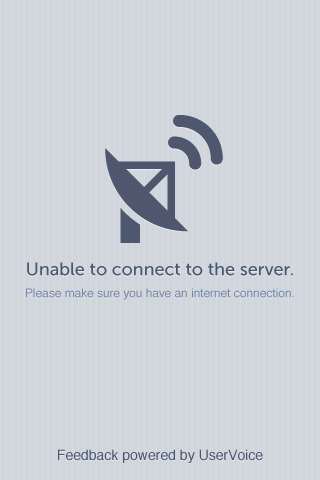
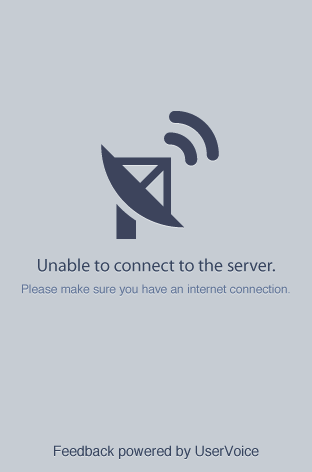
Handle different screen sizes better when displaying network error image

diff --git a/Classes/UVRootViewController.m b/Classes/UVRootViewController.m
@@ -156,10 +156,13 @@
 - (void)viewWillAppear:(BOOL)animated {
 	NSLog(@"View will appear (RootView)");
 
-	if (![UVNetworkUtils hasInternetAccess]) {
+	if (true) {
 		UIImageView *serverErrorImage = [[UIImageView alloc] initWithImage:[UIImage imageNamed:@"uv_error_connection.png"]];
 		self.navigationController.navigationBarHidden = NO;
 		serverErrorImage.frame = self.view.frame;
+        serverErrorImage.contentMode = UIViewContentModeCenter;
+        serverErrorImage.backgroundColor = [UIColor colorWithRed:0.78f green:0.80f blue:0.83f alpha:1.0f];
+        serverErrorImage.clipsToBounds = YES;
 		[self.view addSubview:serverErrorImage];
 		[serverErrorImage release];
 	} else if (![UVToken exists]) {
